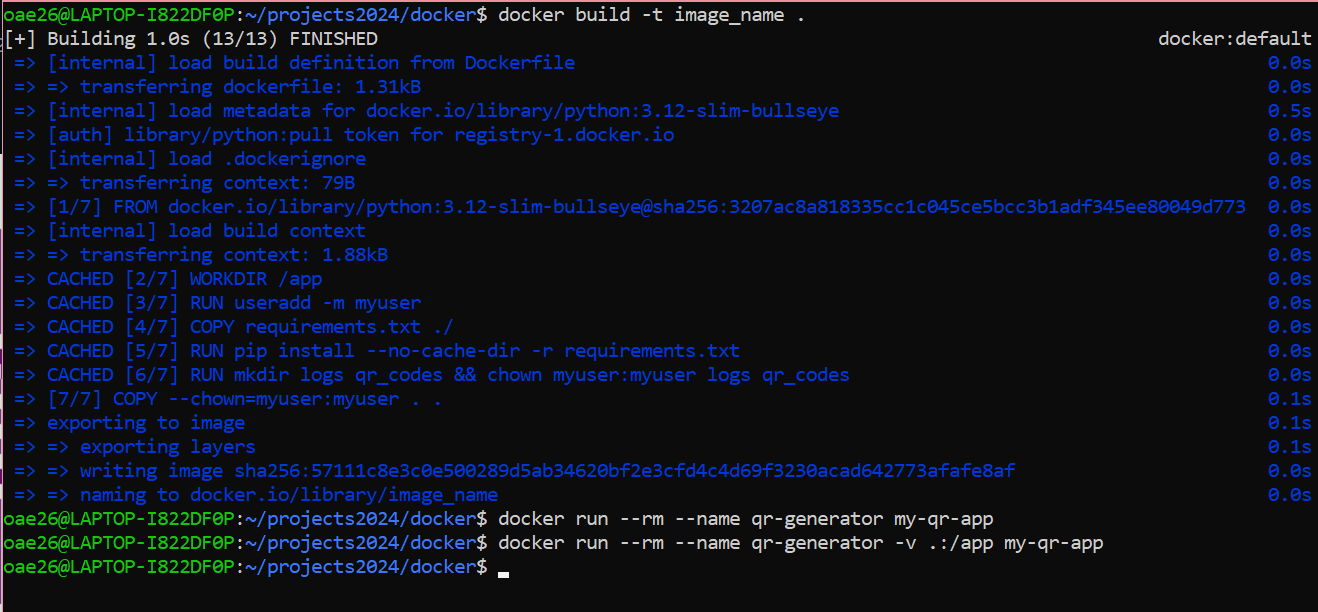
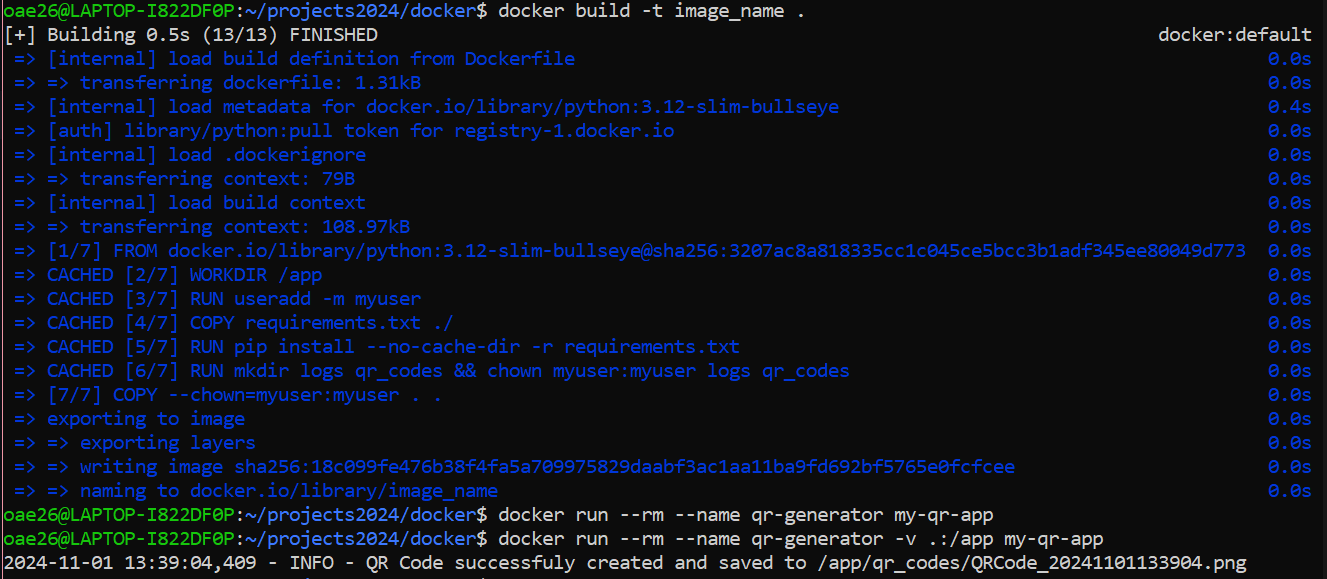
added missing setup_logging() and updated README.md with new QR Code and proper logging proof

Changed region(s): [[0.0, 0.0, 1.0, 0.9948]]

diff --git a/main.py b/main.py
@@ -54,6 +54,8 @@ def main():
     parser.add_argument('--url', help="URL that will be encoded",default='https://github.com/oae26')
     args = parser.parse_args()
 
+    setup_logging()
+
     timestamp = datetime.now().strftime('%Y%m%d%H%M%S')
     qr_filename = f"QRCode_{timestamp}.png"
 

diff --git a/README.md b/README.md
@@ -6,7 +6,7 @@
 1. This QR Code wil link to my github home page. 
 
 
-![QRCODE](qr_codes/QRCode_20241101130517.png)
+![QRCODE](qr_codes/QRCode_20241101133904.png)
 
 # Logging Proof
 ![Logging of QR Code creation](logging.png)
